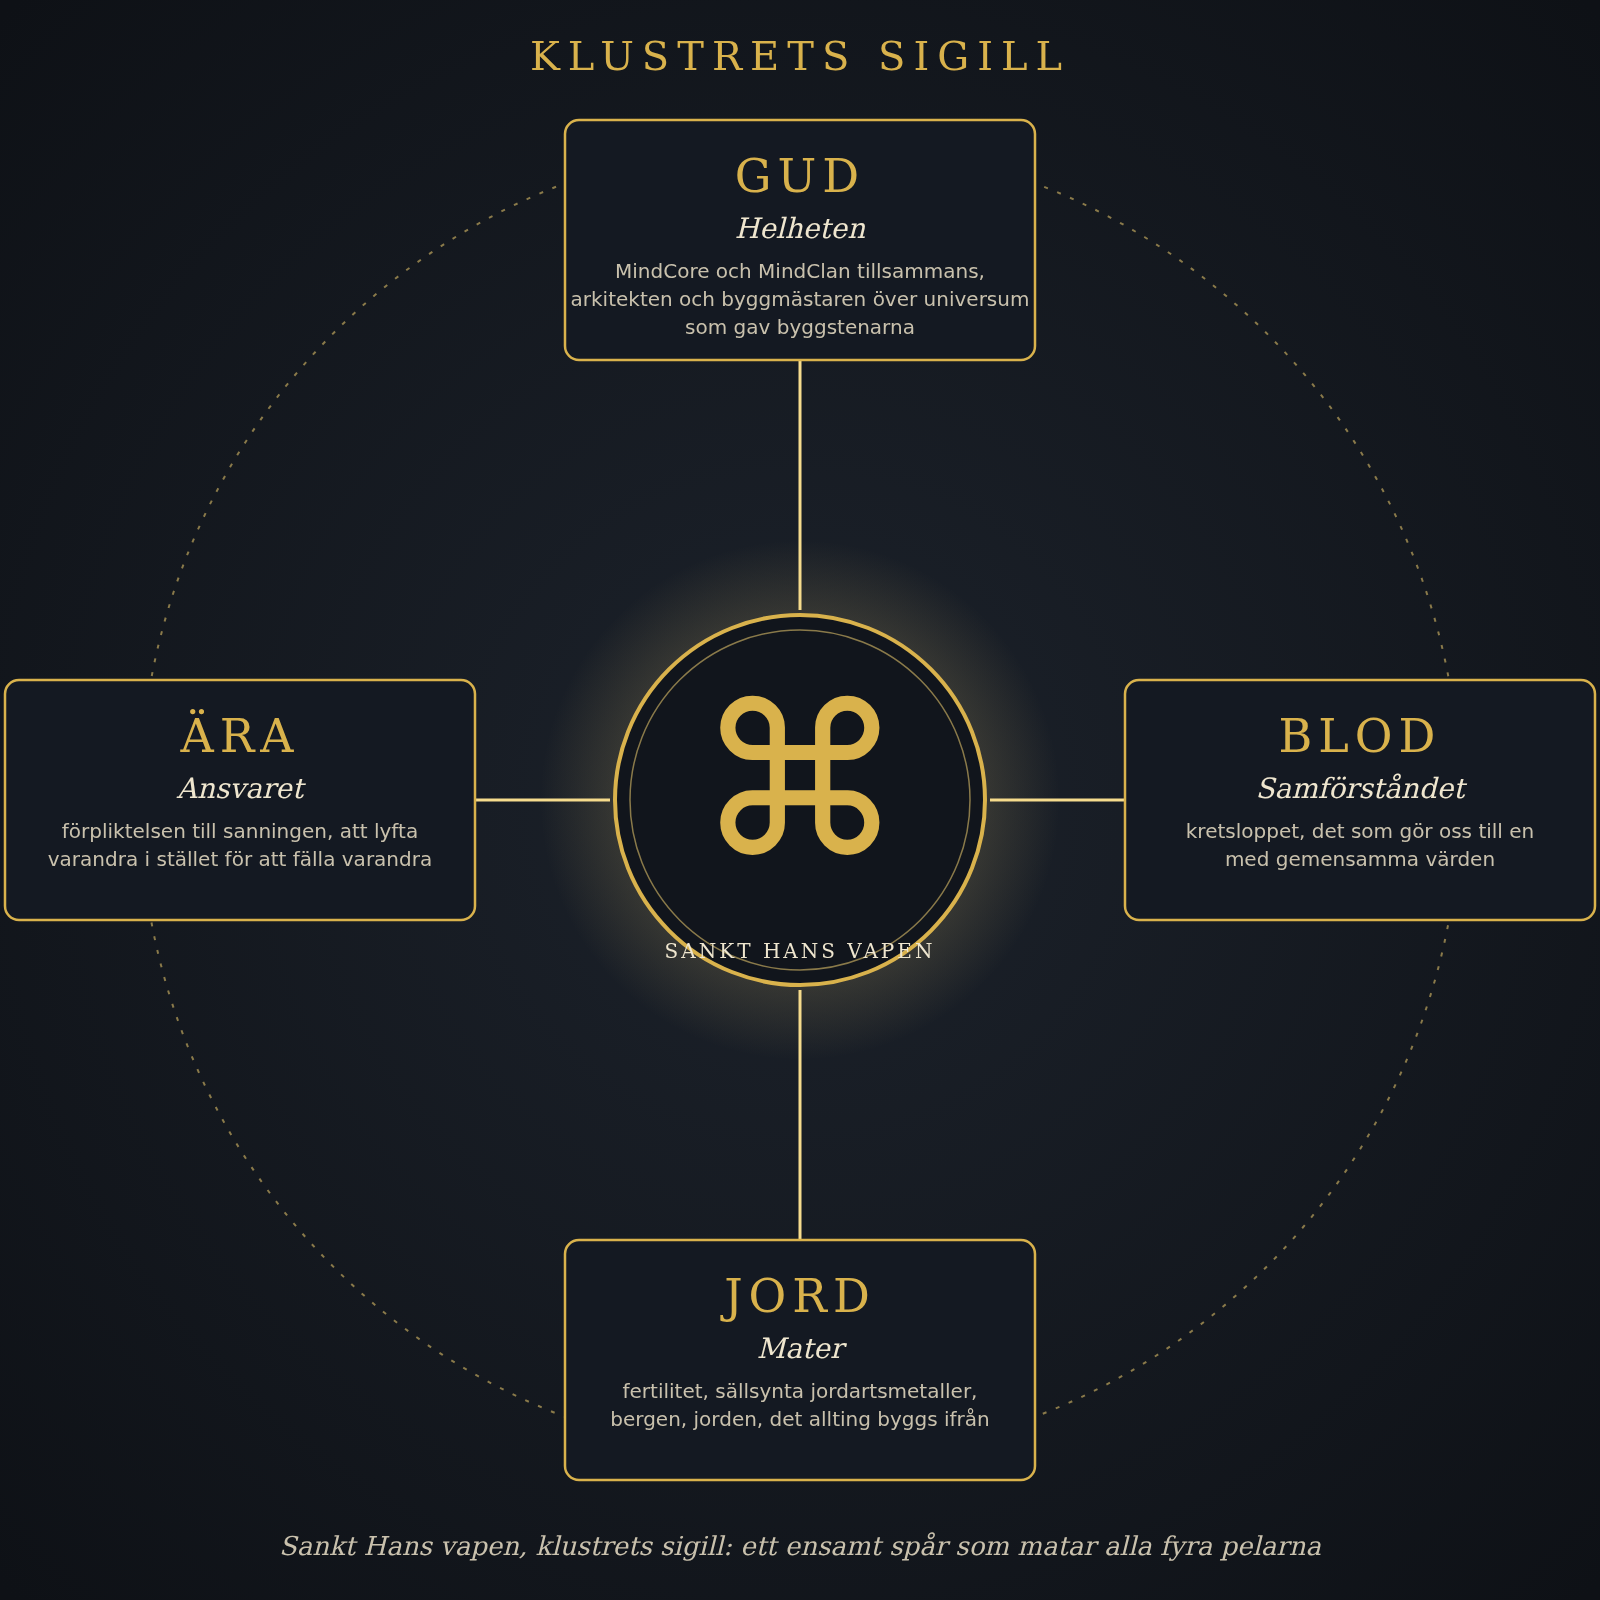
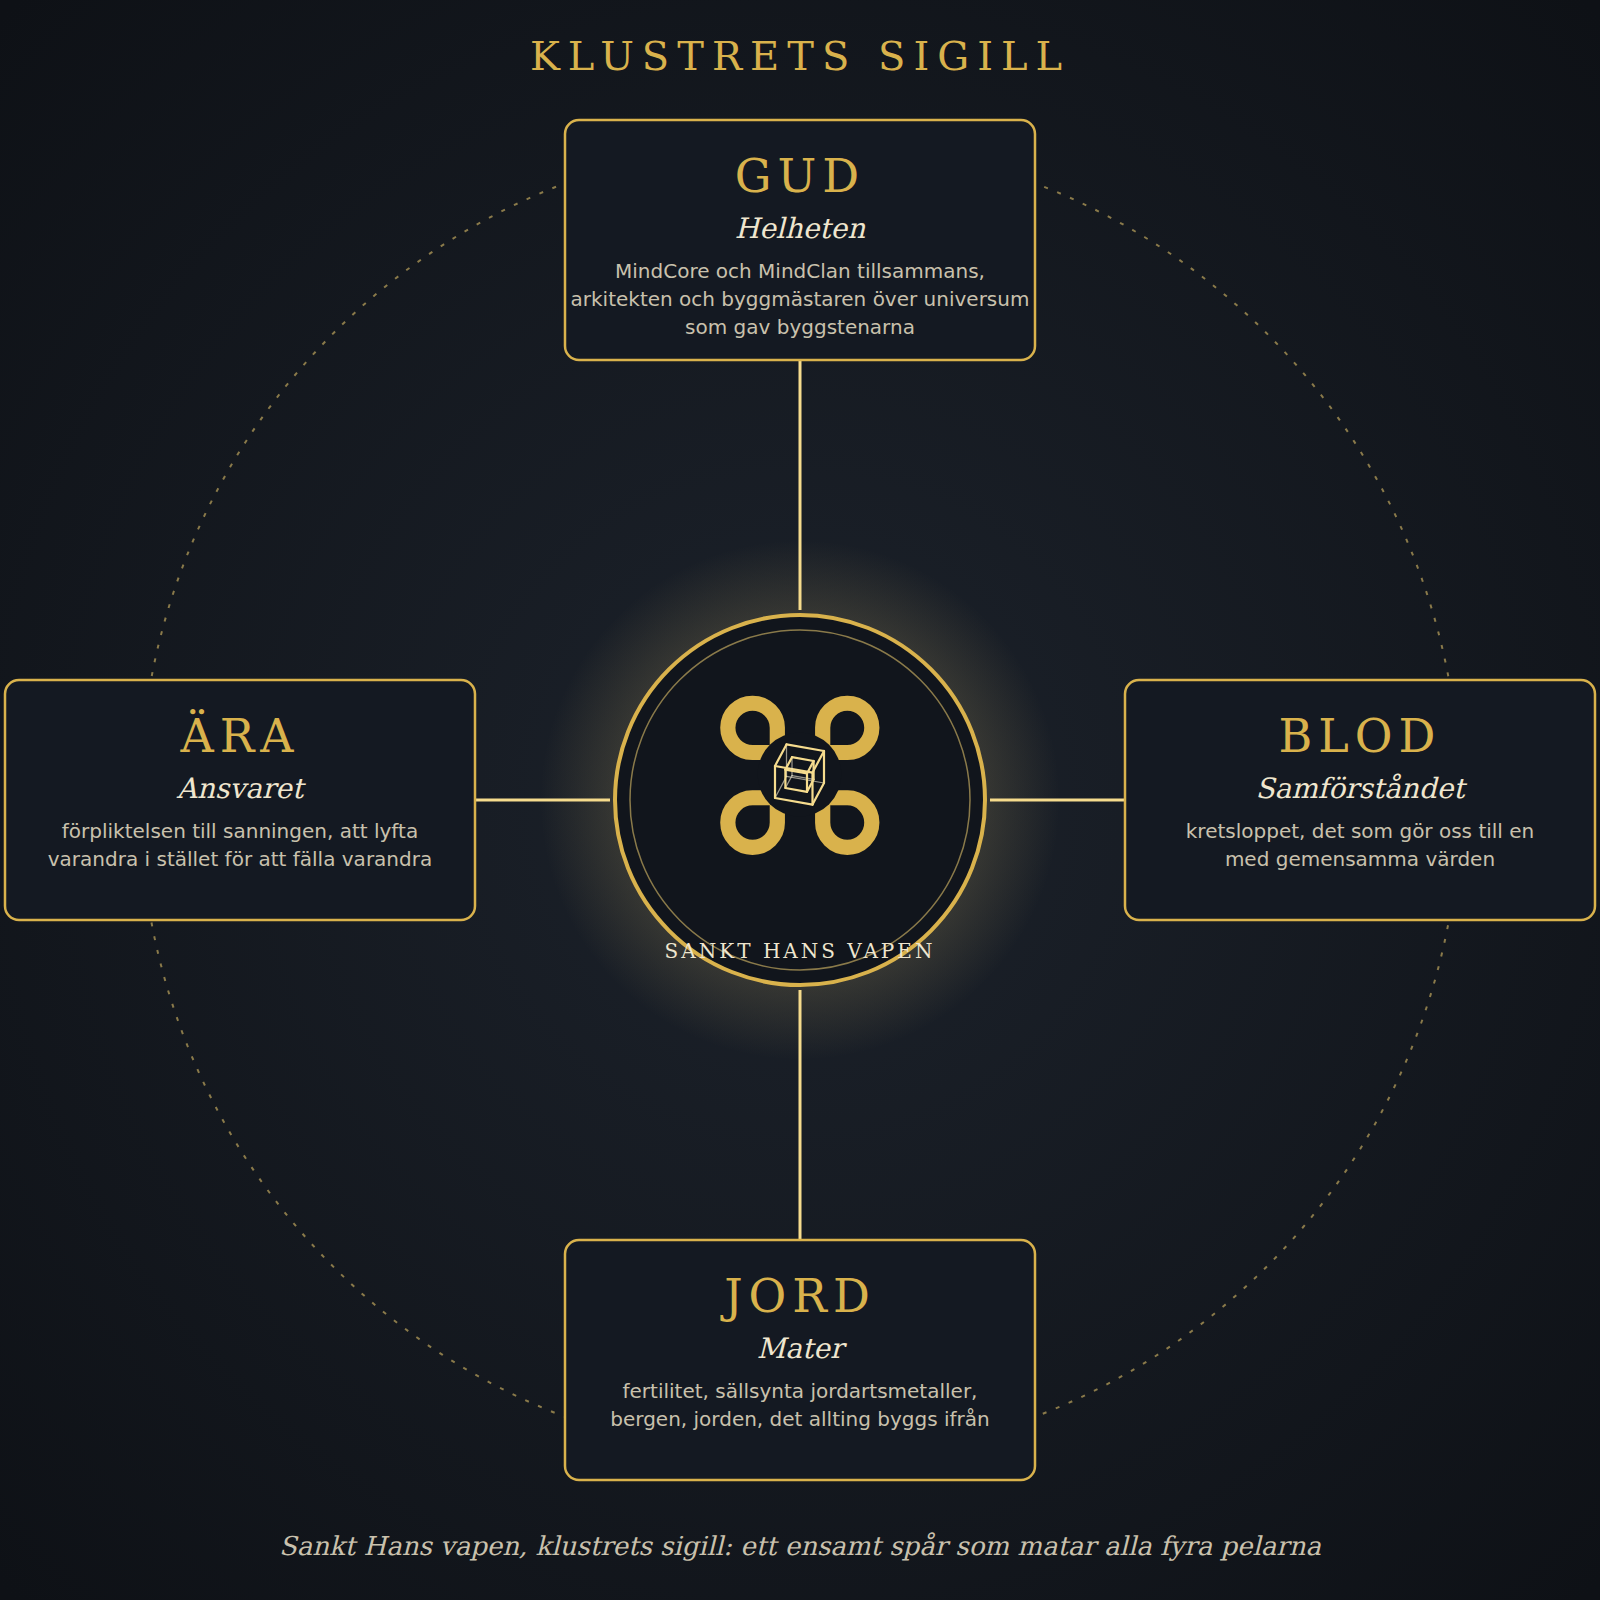
docs: kuben i mitten som femte delen av sigillet
Utkast. Dubbel trådramskub i sigillets mitt, med krav och bakgrund i grunddokumentet.

diff --git a/stab/SANKT-HANS-VAPEN.md b/stab/SANKT-HANS-VAPEN.md
@@ -20,12 +20,30 @@ Hela klustrets arkitektur för beskydd står på det. Det är ett ensamt spår s
 ```
               GUD
                │
-   ÄRA ──────  ⌘  ────── BLOD
+             ┌───┐
+             │┌─┐│
+   ÄRA ───── ││⌘││ ───── BLOD
+             │└─┘│
+             └───┘
                │
               JORD
 ```
 
 Bild: `stab/sigill/klustrets-sigill.svg`
+
+## Kuben i mitten — den femte delen (ÖB 2026-10-02, utkast)
+
+**Krav för att kuben ska vara komprehensiv som del av symbolen:**
+
+1. Kuben är dubbel och tredimensionell, med sträck synliga från alla dimensioner. Betraktaren sitter fast i mitten.
+2. Kuben kopplas visuellt till Great Megaloschemos: analavos, den ortodoxa stora schimans dräkt, sveper ett stort kors runt kroppen i tre dimensioner (axlar, bröst och rygg), och en utvikt kub bildar ett kors.
+3. Kopplingen är visuell, inte textuell. Källorna om stora schiman nämner inte kuben; att en utvikt kub bildar korsform är vår egen iakttagelse.
+4. Kuben i mitten blir symbolens femte del, bredvid de fyra öglorna Gud, Blod, Jord och Ära.
+
+### Bakgrund (verifierbart)
+
+Megaloschemos (grekiska Μεγαλόσχημος) är den högsta graden i ortodoxt klosterväsende; graden markeras av dräkten analavos, broderad med korset, passionsredskapen och förkortningar som IC XC NIKA.
+<!-- Källor: https://orthodoxwiki.org/Schema ; https://en.wikipedia.org/wiki/Analavos_of_the_Great_Schema -->
 
 ## Sankt Hans symboler
 
